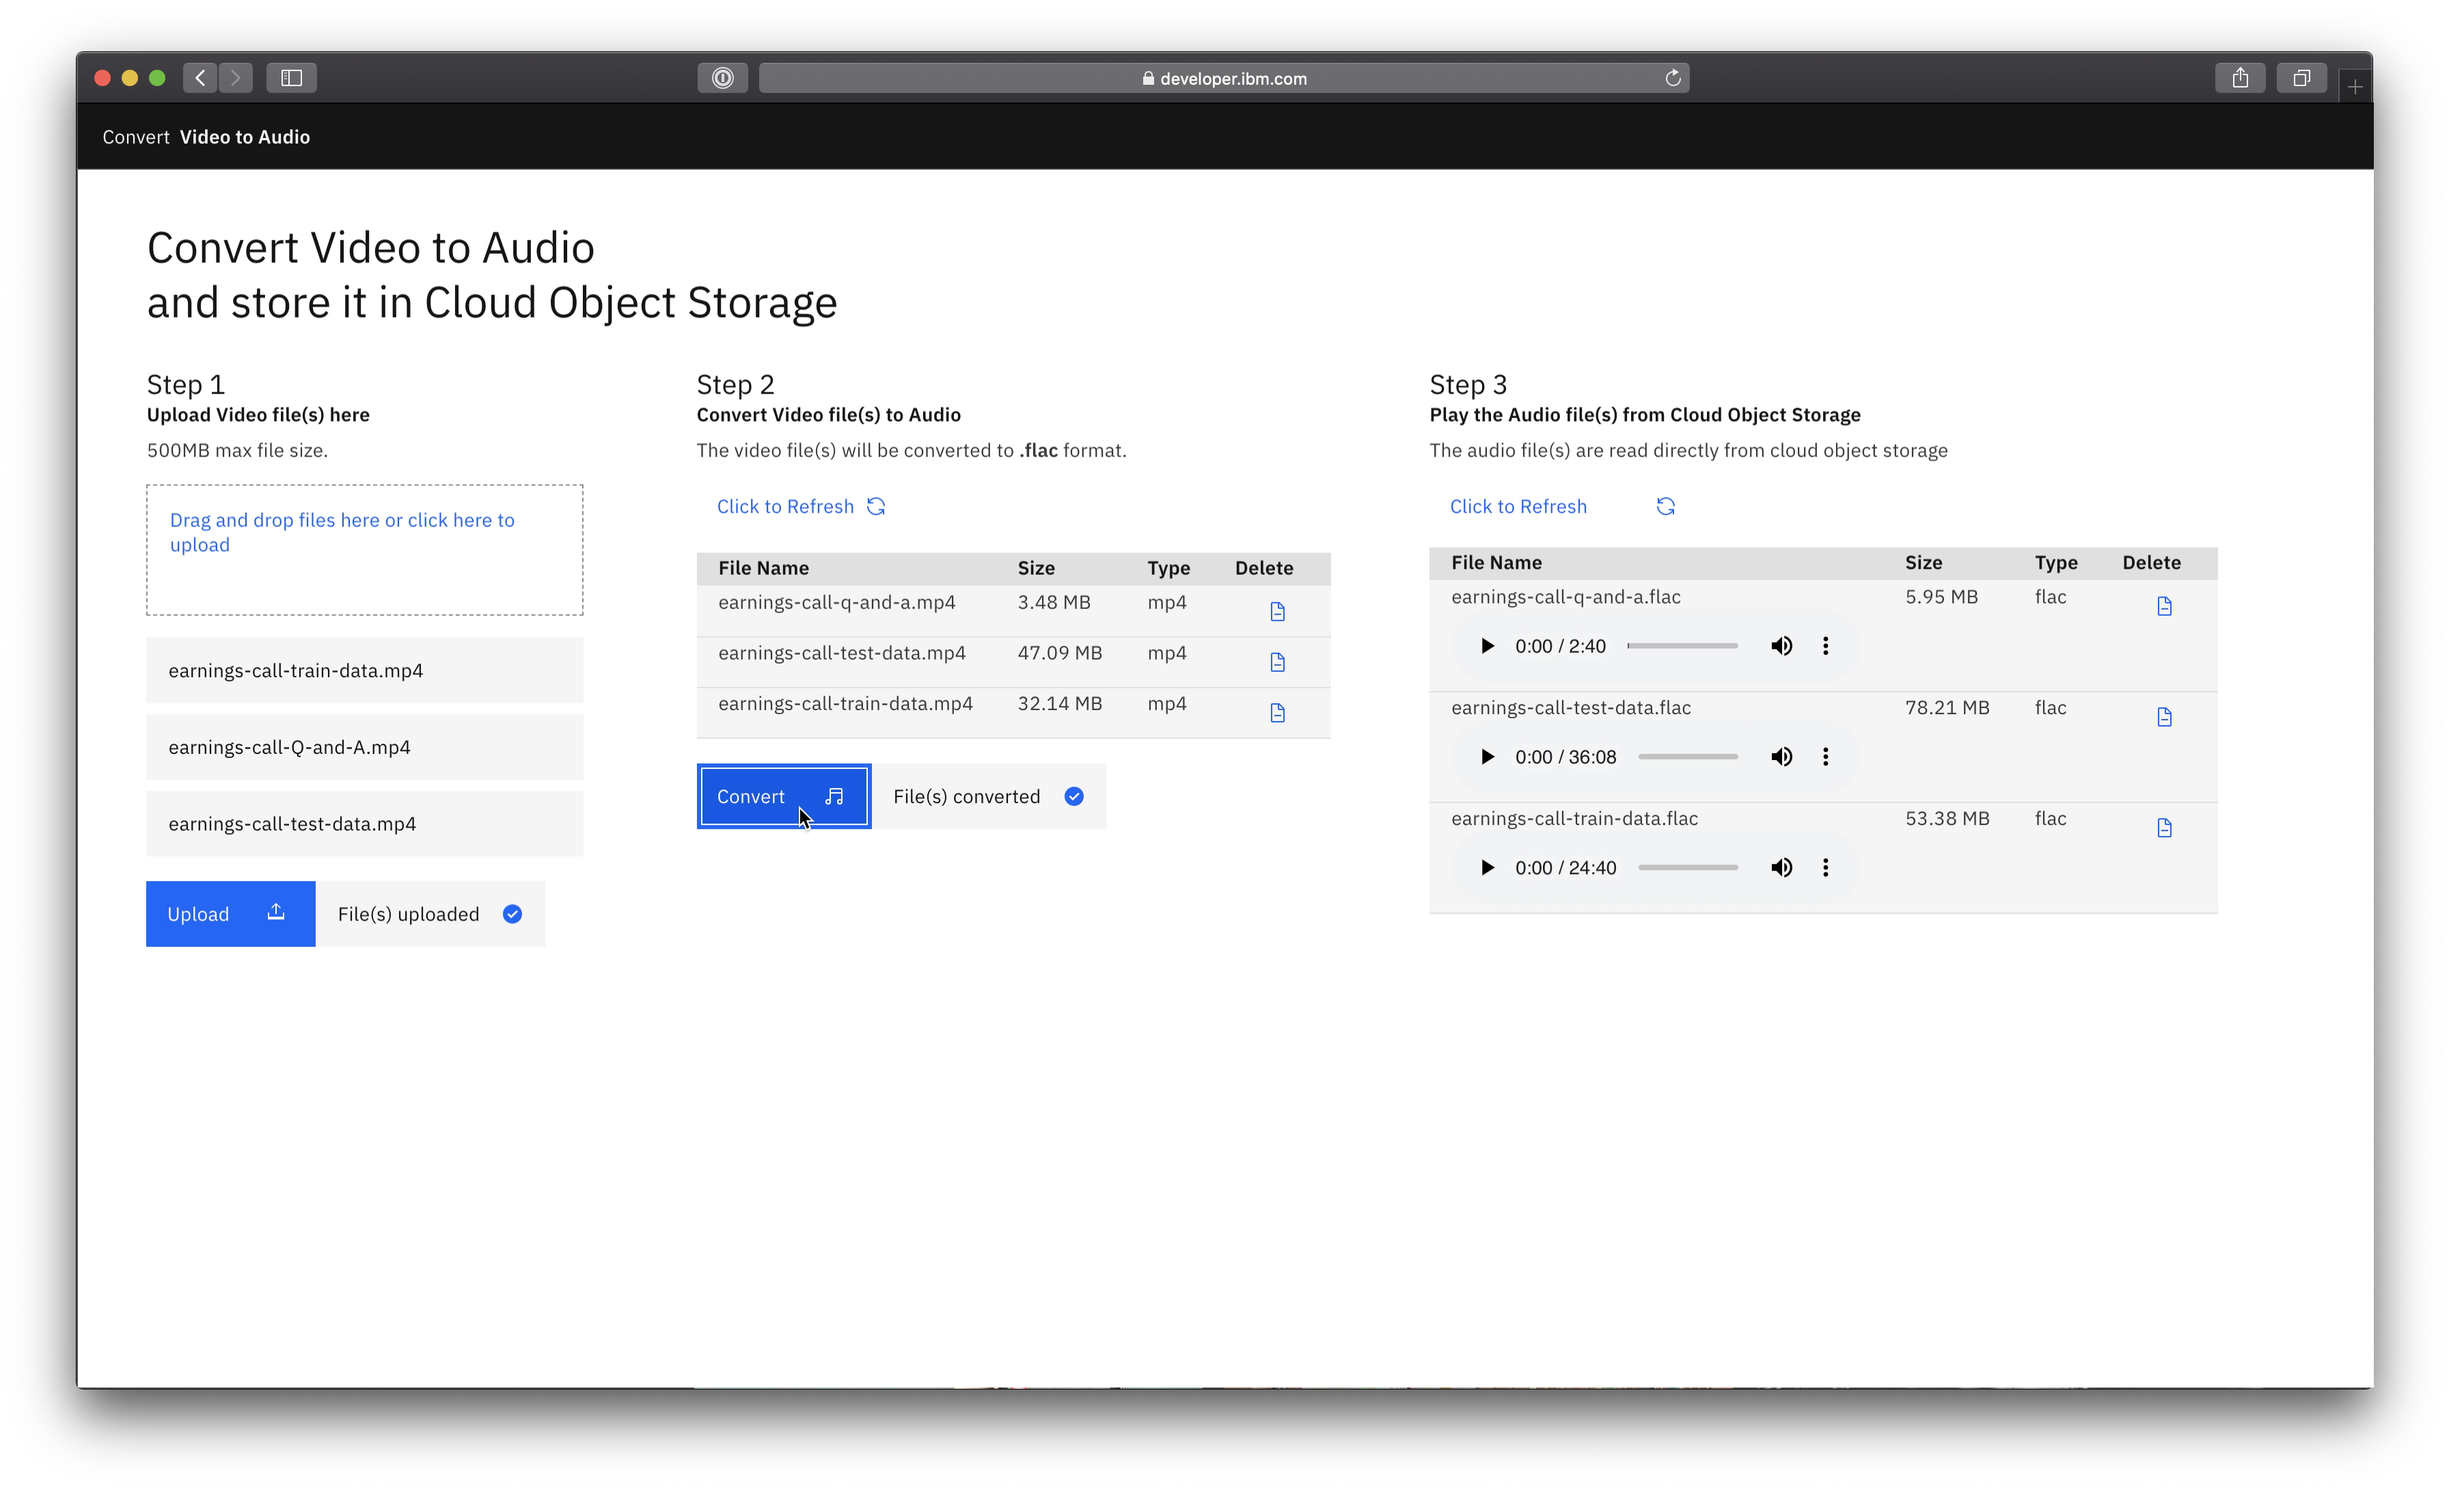
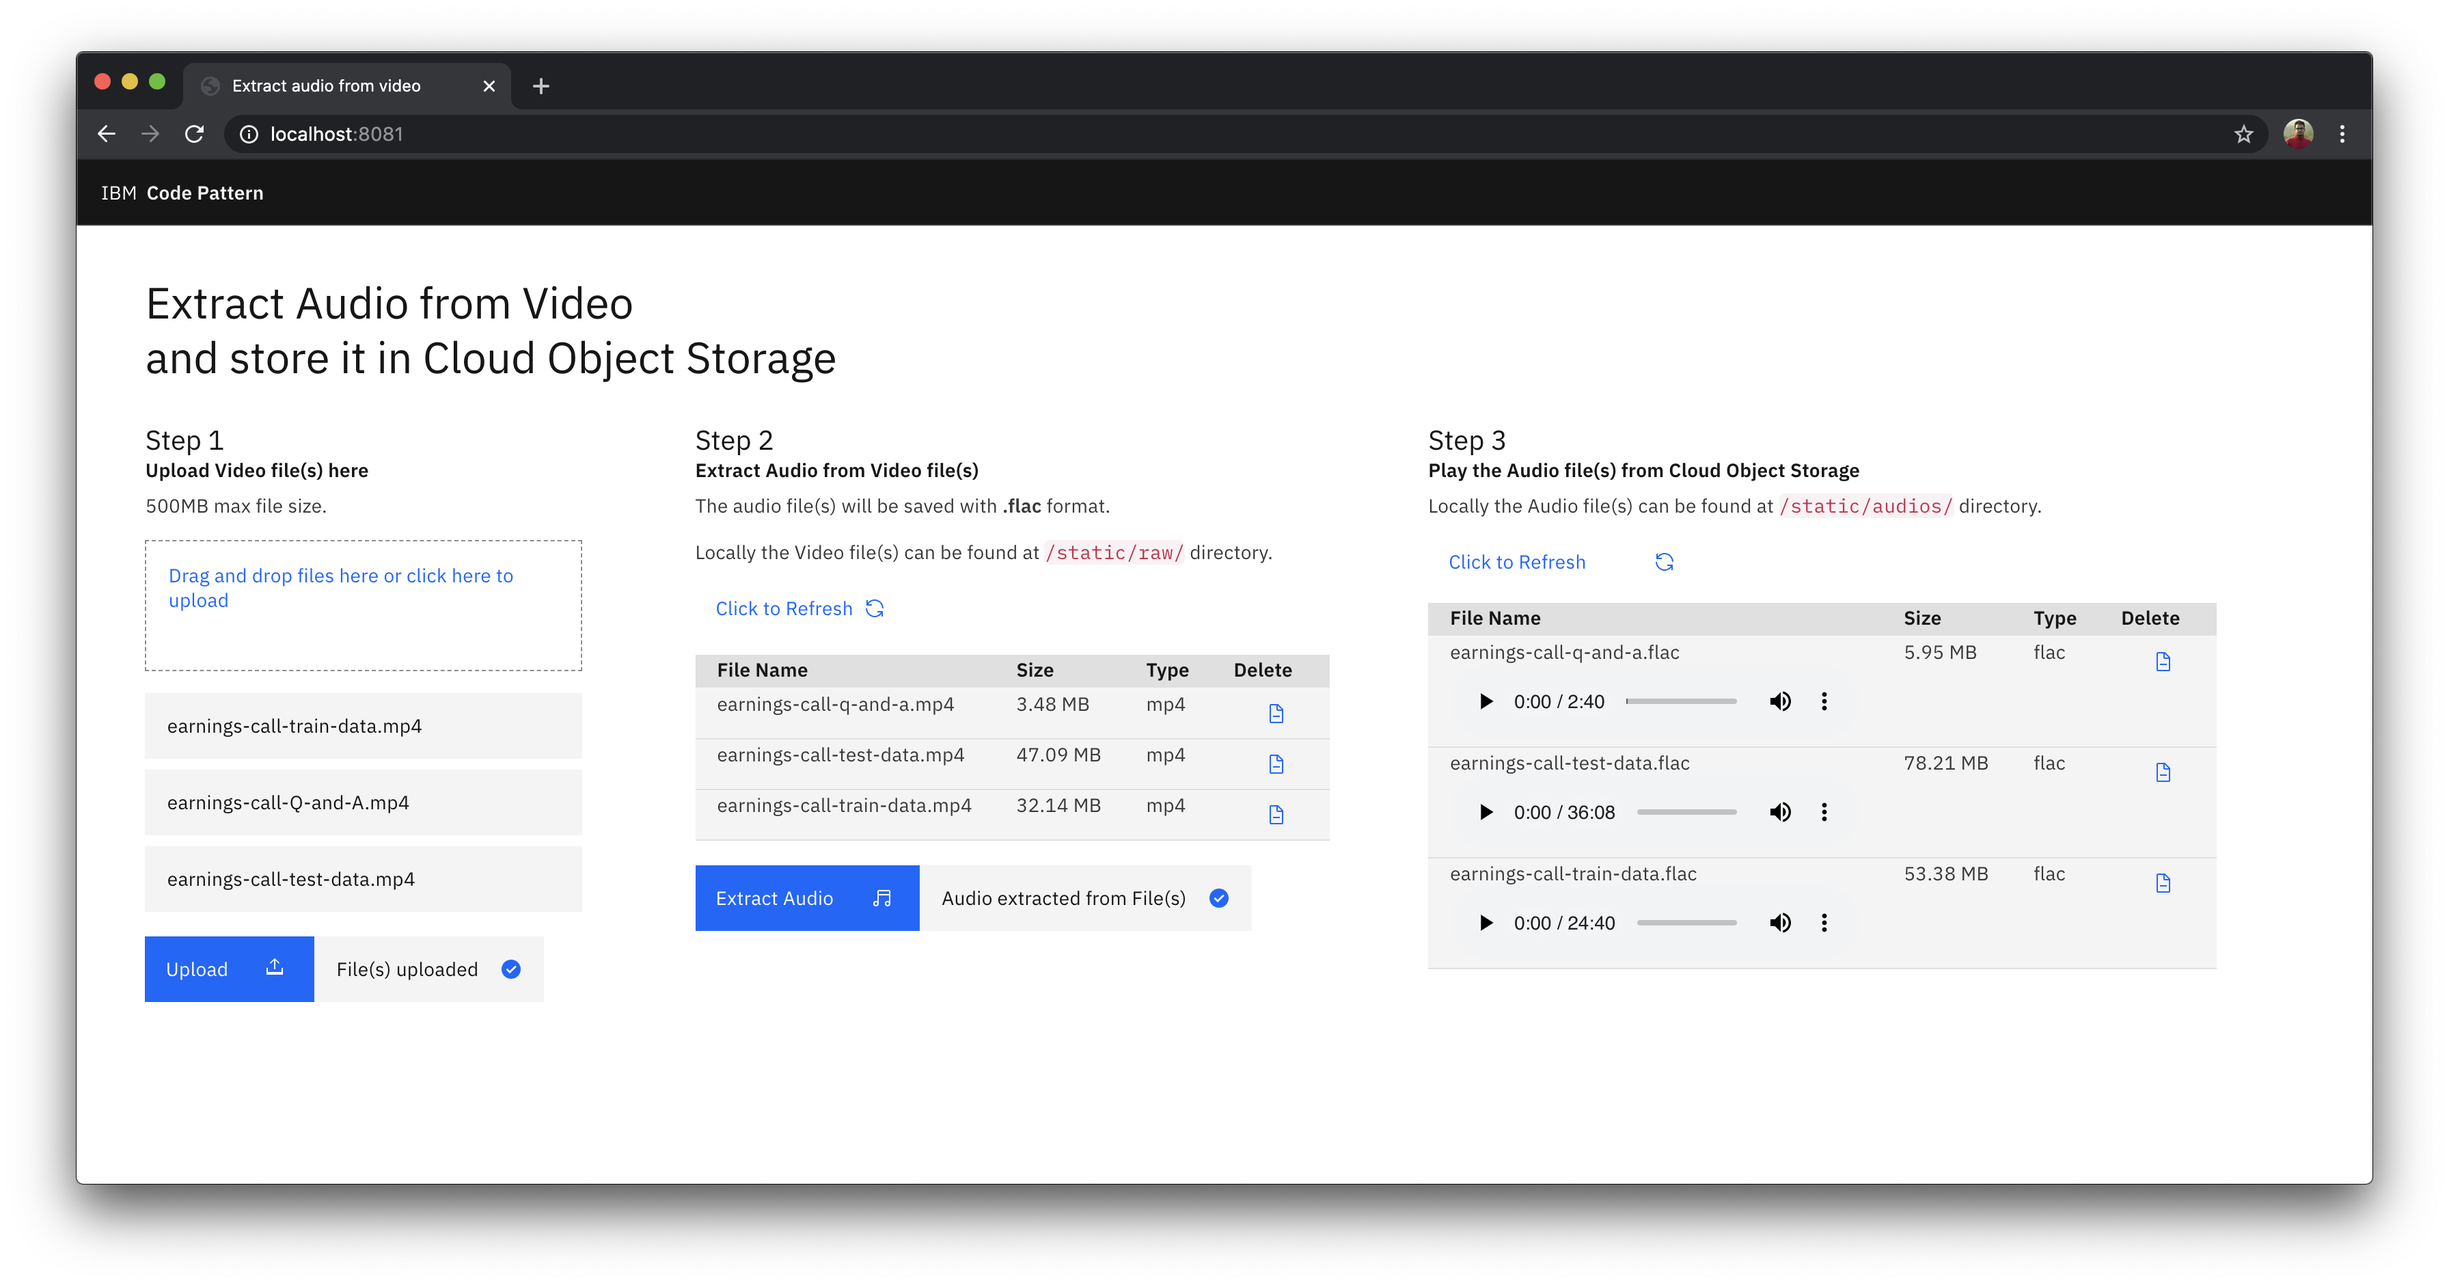
added troubleshooting.md

diff --git a/templates/index.html b/templates/index.html
@@ -2,7 +2,7 @@
 <html>
 
 <head>
-    <title>convert video to audio</title>
+    <title>Extract audio from video</title>
     <meta charset="utf-8">
     <meta name="viewport" content="width=device-width, initial-scale=1">
     <link rel="stylesheet" href="https://maxcdn.bootstrapcdn.com/bootstrap/3.4.1/css/bootstrap.min.css">
@@ -218,7 +218,7 @@
 
                     <div class="bx--btn-set">
                         <div id="convertButton">
-                            <button class="bx--btn bx--btn--primary" id="Convert" onclick="convert()" name="Convert" value="Convert" type="button">Convert
+                            <button class="bx--btn bx--btn--primary" id="Convert" onclick="convert()" name="Convert" value="Convert" type="button">Extract Audio
                                 <svg focusable="false" preserveAspectRatio="xMidYMid meet"
                                     style="will-change: transform;" xmlns="http://www.w3.org/2000/svg"
                                     class="bx--btn__icon" width="16" height="16" viewBox="0 0 32 32" aria-hidden="true">

diff --git a/app.py b/app.py
@@ -326,7 +326,7 @@ def convert_size(size_bytes):
     return "%s %s" % (s, size_name[i])
 
 
-port = os.getenv('VCAP_APP_PORT', '8081')
+port = os.getenv('VCAP_APP_PORT', '8080')
 if __name__ == "__main__":
     app.secret_key = os.urandom(12)
     app.run(debug=True, host='0.0.0.0', port=port)

diff --git a/README.md b/README.md
@@ -39,23 +39,23 @@ Coming Soon!
 
 # Pre-requisites
 
-1. [IBM Cloud](https://cloud.ibm.com) Account.
+1. [IBM Cloud](https://cloud.ibm.com) Account
 
-2. [Docker](https://www.docker.com/products/docker-desktop).
+2. [Docker](https://www.docker.com/products/docker-desktop)
 
-3. [Python](https://www.python.org/downloads/release/python-365/).
+3. [Python](https://www.python.org/downloads/release/python-365/)
 
 # Steps
 
-1. [Clone the repo](#1-clone-the-repo).
+1. [Clone the repo](#1-clone-the-repo)
 
-2. [Create Cloud Object Storage Service](#2-create-cloud-object-storage-service).
+2. [Create Cloud Object Storage Service](#2-create-cloud-object-storage-service)
 
-3. [Add the Credentials to the Application](#3-add-the-credentials-to-the-application).
+3. [Add the Credentials to the Application](#3-add-the-credentials-to-the-application)
 
-4. [Deploy the Application](#4-deploy-the-application).
+4. [Deploy the Application](#4-deploy-the-application)
 
-5. [Run the Application](#5-run-the-application).
+5. [Run the Application](#5-run-the-application)
 
 
 ### 1. Clone the repo
@@ -143,11 +143,14 @@ $ python app.py
 
 ### 5. Run the Application
 
-Visit  <http://localhost:8080> on your browser to run the application.
+- Visit  <http://localhost:8080> on your browser to run the application.
 
+- Enter a `Bucket Name` to get started.
+
+![bucket_name](doc/source/images/bucket-name.png)
 ![sample_output](doc/source/images/sample-output.png)
 
-Now you can extract the audio and store it in Cloud Object Storage in just 3 steps:
+- You can extract the audio and store it in Cloud Object Storage in just 3 steps:
 
 1. Upload the Videos file `earnings-call-train-data.mp4`, `earnings-call-test-data.mp4` & `earnings-call-Q-and-A.mp4` from the `data` directory of the cloned repo and click on `Upload` button.
 
@@ -168,6 +171,34 @@ This is the full discussion from the recording which will be used to test the cu
 
 - `earnings-call-Q-and-A.mp4` - (Duration - 2:40)
 This is a part of Q & A's asked at the end of the meeting. The purpose of this data is to demonstrate how Watson Speech To Text can detect different speakers from an audio which will be demonstrated in the second code pattern from the series.
+
+## Troubleshooting
+
+- CLIENT ERROR: An error occurred (BucketAlreadyExists) when calling the CreateBucket operation: Container textmining exists with a different storage location than requested.
+
+>This is a common error that occurs if the specified bucket name is already present in some storage location.
+
+![troubleshooting](doc/source/images/troubleshooting.png)
+
+- In the repo parent folder, open the **credentials.json** file and delete the `bucket_name` from the json file and refresh the application. Use a different bucket name instead.
+
+<pre><code>{
+  "apikey": "*****",
+  "cos_hmac_keys": {
+    "access_key_id": "*****",
+    "secret_access_key": "*****"
+  },
+  "endpoints": "*****",
+  "iam_apikey_description": "*****",
+  "iam_apikey_name": "*****",
+  "iam_role_crn": "*****",
+  "iam_serviceid_crn": "*****",
+  "resource_instance_id": "*****"<b><i><s>,
+  "bucket_name": "text-mining"</s></i></b>
+}
+</code></pre>
+
+>NOTE: Make sure to delete the `,` at the end of `resource_instance_id` as it its a json file.
 
 <!-- keep this -->
 ## License

diff --git a/wiki.md b/wiki.md
@@ -9,7 +9,6 @@ Extract audio from video and store it in cloud object storage
 
 # Author
 * [Manoj Jahgirdar](https://www.linkedin.com/in/manoj-jahgirdar-6b5b33142/)
-* [Muralidhar Chavan](https://www.linkedin.com/in/muralidhar-chavan-3335b638/)
 * [Manjula Hosurmath](https://www.linkedin.com/in/manjula-g-hosurmath-0b47031)
 
 # URLs
